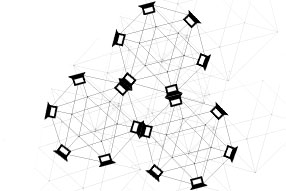
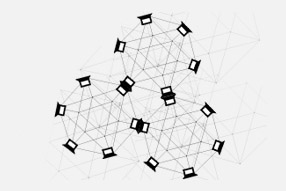
Adjust the size of the illustrations in Solution

Changed region(s): [[0.1399, 0.0, 0.8392, 0.9948], [0.7552, 0.8639, 0.7832, 0.8901], [0.3077, 0.9162, 0.3357, 0.9424]]

diff --git a/index.html b/index.html
@@ -214,31 +214,7 @@
 
     <!-- End Header ====
     	======================================= -->
-			<!-- Button to Open the Modal
-			<button type="button" class="btn btn-primary" data-toggle="modal" data-target="#myModal">
-				Open modal
-			</button>
 
-			<div class="modal fade" id="myModal">
-				<div class="modal-dialog">
-					<div class="modal-content">
-
-						<div class="modal-header">
-							<h4 class="modal-title">Modal Heading</h4>
-							<button type="button" class="close" data-dismiss="modal">&times;</button>
-						</div>
-
-						<div class="modal-body">
-							Modal body..
-						</div>
-
-						<div class="modal-footer">
-							<button type="button" class="btn btn-danger" data-dismiss="modal">Close</button>
-						</div>
-
-					</div>
-				</div>
-			</div>
 
     <!-- =====================================
     	==== Start Hero -->
@@ -326,16 +302,16 @@
                     <div class="content">
                         <div id="tab-1-content" class="tab-item curent">
                             <div class="row">
-                                <div class="col-8">
+                                <div class="col-9">
                                     <div class="item bord">
                                         <p>Simulate a fully-functional test network in minutes that behaves and responds identically
                                             to a live production network. Emulate links between nodes to replicate ideal
                                             or suboptimal network conditions.</p>
                                     </div>
                                 </div>
-                                <div class="col-4">
+                                <div class="col-3">
                                     <div class="item special">
-                                        <img src="img/solution/perform.jpg" alt="">
+                                        <img src="img/solution/perf.jpg" alt="Performance Icon for Whiteblock Blockchain Testing Platform">
                                     </div>
                                 </div>
                             </div>
@@ -343,15 +319,15 @@
 
                         <div id="tab-2-content" class="tab-item">
                             <div class="row">
-                                <div class="col-8">
+                                <div class="col-9">
                                     <div class="item bord">
                                         <p>Validate and troubleshoot the performance of decentralized applications, changes
                                             to infrastructure, protocols, and consensus algorithms prior to deployment.</p>
                                     </div>
                                 </div>
-                                <div class="col-4">
+                                <div class="col-3">
                                     <div class="item special">
-                                        <img src="img/solution/optimize.jpg" alt="Optimize Icon for Whiteblock Blockchain Testing Platform">
+                                        <img src="img/solution/opt.jpg" alt="Optimize Icon for Whiteblock Blockchain Testing Platform">
                                     </div>
                                 </div>
                             </div>
@@ -359,16 +335,16 @@
 
                         <div id="tab-3-content" class="tab-item">
                             <div class="row">
-                                <div class="col-8">
+                                <div class="col-9">
                                     <div class="item bord">
                                         <p>Quickly spin up a synchronous mesh network with thousands of configurable nodes that
                                             can interact, process transactions. and automate over 100,000 transactions per
                                             second in real-time.</p>
                                     </div>
                                 </div>
-                                <div class="col-4">
+                                <div class="col-3">
                                     <div class="item special">
-                                        <img src="img/scale.jpg" alt="Scale Icon for Whiteblock Blockchain Testing Platform">
+                                        <img src="img/solution/scale.jpg" alt="Scale Icon for Whiteblock Blockchain Testing Platform">
                                     </div>
                                 </div>
                             </div>
@@ -376,16 +352,16 @@
 
                         <div id="tab-4-content" class="tab-item">
                             <div class="row">
-                                <div class="col-8">
+                                <div class="col-9">
                                     <div class="item bord">
                                         <p>Observe the performance of blockchain systems and decentralized applications in a
                                             controlled environment. Identify performance issues, bugs, and errors before
                                             it’s too late.</p>
                                     </div>
                                 </div>
-                                <div class="col-4">
+                                <div class="col-3">
                                     <div class="item special">
-                                        <img src="img/evaluate.jpg" alt="Evaluate Icon for Whiteblock Blockchain Testing Platform">
+                                        <img src="img/solution/eval.jpg" alt="Evaluate Icon for Whiteblock Blockchain Testing Platform">
                                     </div>
                                 </div>
                             </div>

diff --git a/css/style.css b/css/style.css
@@ -678,7 +678,7 @@ span, a, a:hover {
   top: 0;
   opacity: .7;
 }
-.serv-tabs .content .spcial {
+.serv-tabs .content .special {
   padding-left: 30px;
 }
 .serv-tabs .content p {
@@ -1362,9 +1362,6 @@ footer p {
   .serv-tabs .content .bord:after {
     display: none;
   }
-  .serv-tabs .content .spcial {
-    padding-left: 0;
-  }
   .services .item {
     margin-bottom: 30px;
     height: 300px;
@@ -1420,6 +1417,9 @@ footer p {
   .serv-tabs .tabs .item p {
     font-size: 20px;
   }
+  .serv-tabs .content .special {
+    padding-left: 20px;
+  }
   .header .email-subscribe h4 {
     font-size: 20px;
   }
@@ -1448,11 +1448,17 @@ footer p {
   .header .email-subscribe h4 {
     font-size: 13px;
   }
-
+  .serv-tabs .content .special {
+    display: none;
+  }
   .serv-tabs .tabs .item p {
     font-size: 15px;
   }
-
+  .serv-tabs .tabs-icon .item div {
+    padding: 20px 0;
+    margin-top: 40px;
+    border-radius: 5px;
+  }
   .section-head h4 {
     font-size: 20px;
   }
